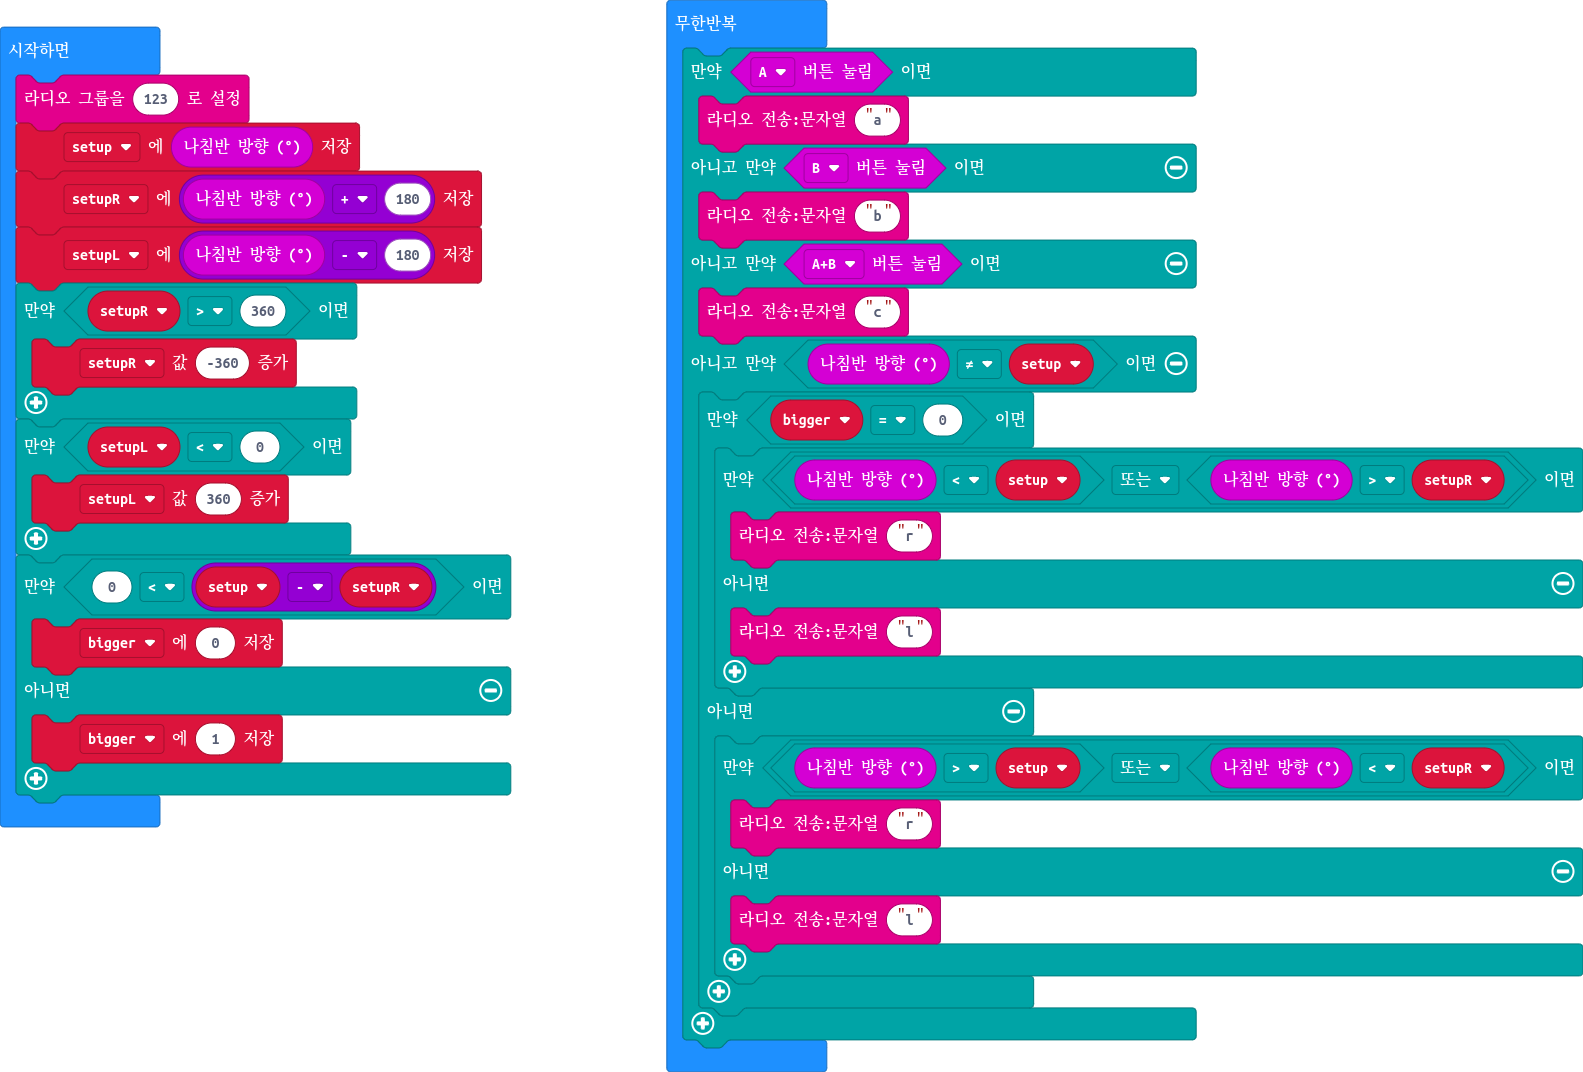
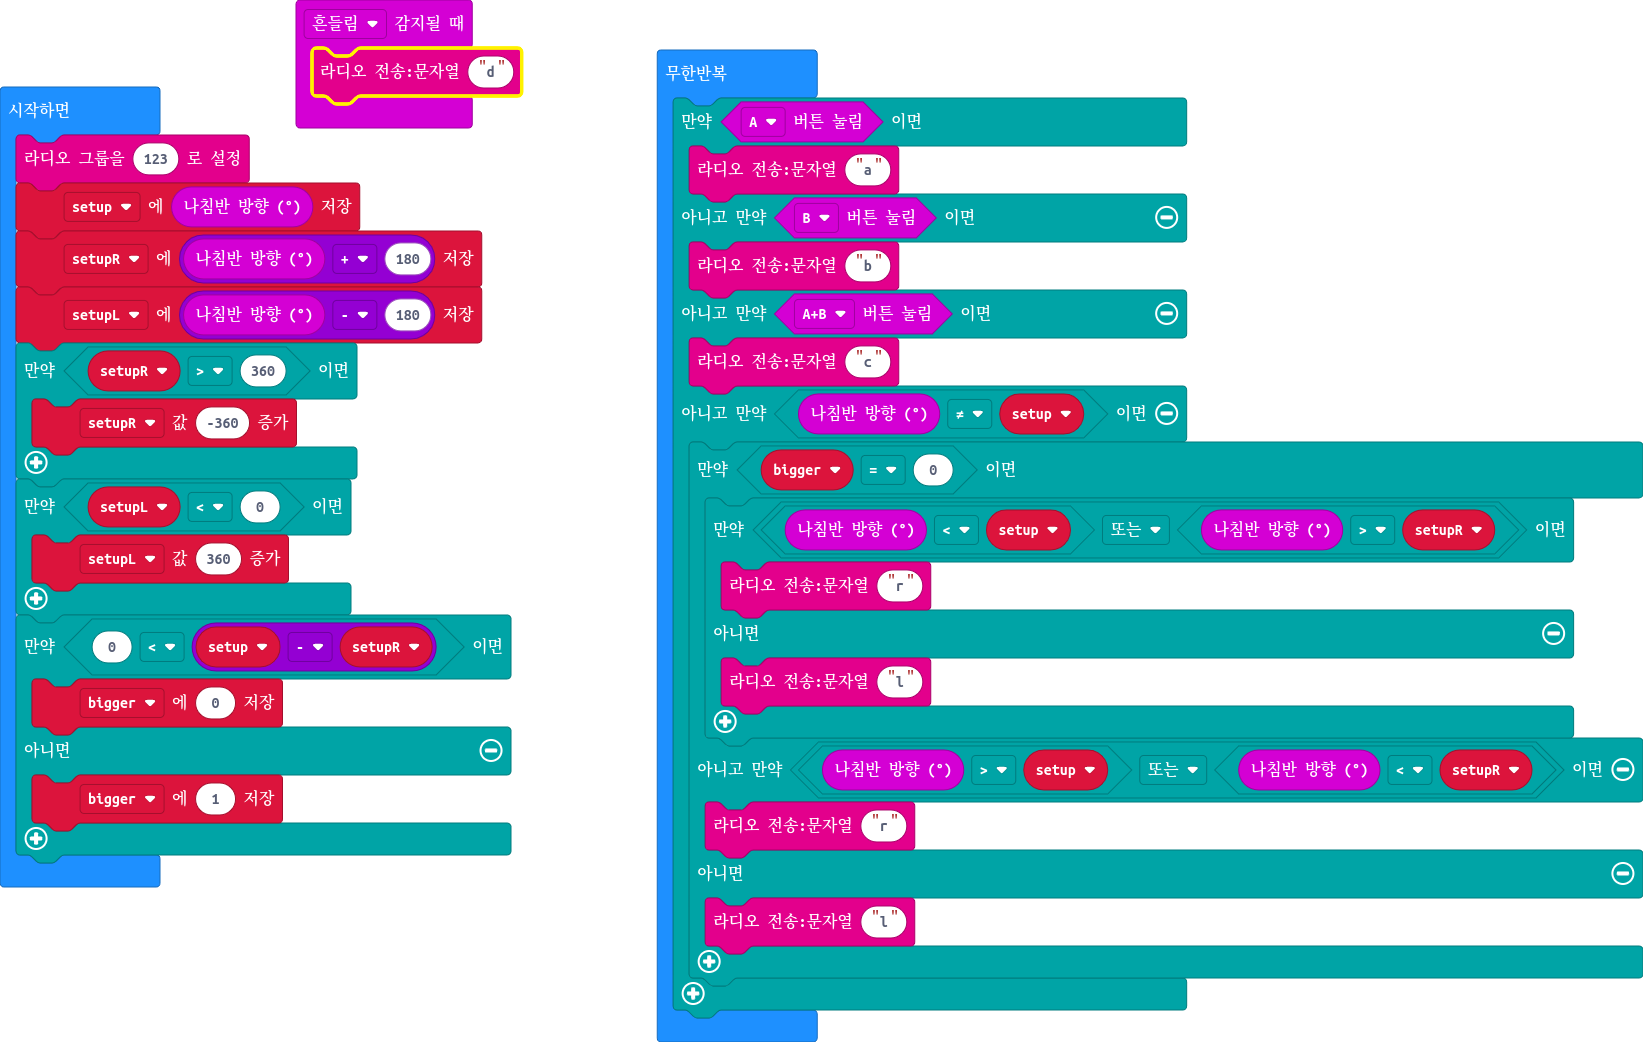
shake added

diff --git a/main.ts b/main.ts
@@ -1,3 +1,6 @@
+input.onGesture(Gesture.Shake, function () {
+    radio.sendString("d")
+})
 let bigger = 0
 radio.setGroup(123)
 let setup = input.compassHeading()
@@ -28,12 +31,10 @@ basic.forever(function () {
             } else {
                 radio.sendString("l")
             }
+        } else if (input.compassHeading() > setup || input.compassHeading() < setupR) {
+            radio.sendString("r")
         } else {
-            if (input.compassHeading() > setup || input.compassHeading() < setupR) {
-                radio.sendString("r")
-            } else {
-                radio.sendString("l")
-            }
+            radio.sendString("l")
         }
     }
 })

diff --git a/main.py b/main.py
@@ -1,0 +1,32 @@
+bigger = 0
+radio.set_group(123)
+setup = input.compass_heading()
+setupR = input.compass_heading() + 180
+setupL = input.compass_heading() - 180
+if setupR > 360:
+    setupR += -360
+if setupL < 0:
+    setupL += 360
+if 0 < setup - setupR:
+    bigger = 0
+else:
+    bigger = 1
+
+def on_forever():
+    if input.button_is_pressed(Button.A):
+        radio.send_string("a")
+    elif input.button_is_pressed(Button.B):
+        radio.send_string("b")
+    elif input.button_is_pressed(Button.AB):
+        radio.send_string("c")
+    elif input.compass_heading() != setup:
+        if bigger == 0:
+            if input.compass_heading() < setup or input.compass_heading() > setupR:
+                radio.send_string("r")
+            else:
+                radio.send_string("l")
+        elif input.compass_heading() > setup or input.compass_heading() < setupR:
+            radio.send_string("r")
+        else:
+            radio.send_string("l")
+basic.forever(on_forever)
